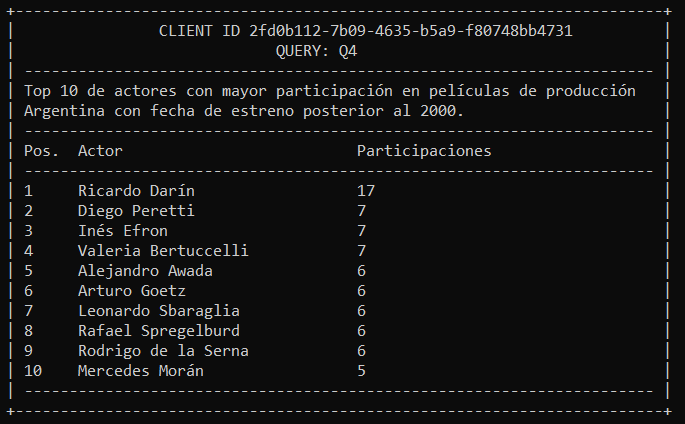
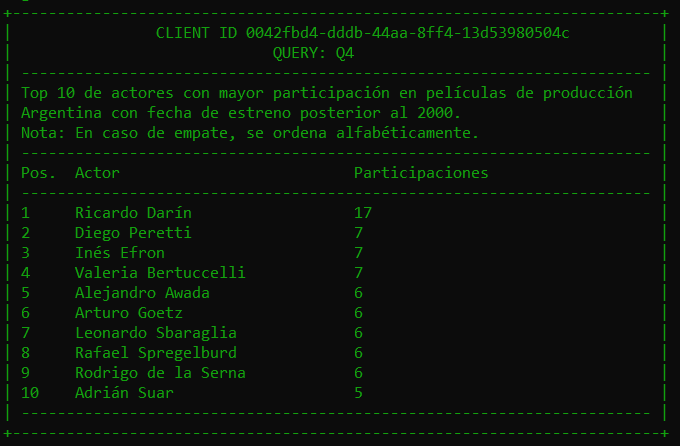
Update result presentation and query logic for improved clarity and accuracy in actor rankings now sorted alphabetically

Changed region(s): [[0.0, 0.0, 0.9882, 0.9811], [0.4941, 0.4292, 0.5559, 0.8892], [0.525, 0.0, 0.5559, 0.0307]]

diff --git a/query/q4/q4.py b/query/q4/q4.py
@@ -17,7 +17,9 @@ class ArgProdActorsQuery(QueryBase):
     """
 
     def __init__(self, config):
-        self.source_queue = config["DEFAULT"].get("movies_credits_queue", "movies_credits")
+        self.source_queue = config["DEFAULT"].get(
+            "movies_credits_queue", "movies_credits"
+        )
         super().__init__(config, self.source_queue, logger_name="q4")
 
         self.duplicate_handler = DuplicateHandler()
@@ -39,13 +41,12 @@ class ArgProdActorsQuery(QueryBase):
             }
 
         else:
-            # Sort actors by participation count in descending order and get the top 10
+            # Sort actors by participation count in descending order of participations and then alfabetical
+            # and get the top 10
             all_sorted_actors = sorted(
                 self.actor_participations[key].values(),
-                key=lambda x: x["count"],
-                reverse=True,
+                key=lambda x: (-x["count"], x["name"]),
             )
-
             logger.info("Top actors: %s", all_sorted_actors)
 
             sorted_actors = all_sorted_actors[:10]
@@ -60,8 +61,11 @@ class ArgProdActorsQuery(QueryBase):
         self.rabbitmq_processor.publish(
             target=self.config["DEFAULT"]["results_queue"], message=results_msg
         )
-        logger.debug("LRU: Results published for client %s, %s", client_id, 
-                    self.duplicate_handler.get_cache(client_id, self.source_queue))
+        logger.debug(
+            "LRU: Results published for client %s, %s",
+            client_id,
+            self.duplicate_handler.get_cache(client_id, self.source_queue),
+        )
 
     def callback(self, ch, method, properties, body, input_queue):
         msg_type = properties.type if properties else "UNKNOWN"
@@ -72,7 +76,6 @@ class ArgProdActorsQuery(QueryBase):
         sub_id = headers.get("sub_id")
         expected = headers.get("expected")
         message_key = f"{message_id}:{sub_id}/{expected}"
-
 
         if client_id is None:
             logger.warning("❌ Missing client_id in headers. Skipping.")
@@ -88,7 +91,9 @@ class ArgProdActorsQuery(QueryBase):
                 logger.error("Failed to decode EOS message")
                 self.rabbitmq_processor.acknowledge(method)
                 return
-            if not self.client_manager.has_queue_received_eos_from_node(client_id, input_queue, node_id):
+            if not self.client_manager.has_queue_received_eos_from_node(
+                client_id, input_queue, node_id
+            ):
                 self.client_manager.mark_eos(client_id, input_queue, node_id)
                 if self.client_manager.has_received_all_eos(client_id, input_queue):
                     logger.info("All nodes have sent EOS. Calculating results...")
@@ -100,14 +105,17 @@ class ArgProdActorsQuery(QueryBase):
                 )
             self.rabbitmq_processor.acknowledge(method)
             return
-        
+
         if message_key is None:
             logger.error("Missing message_key in headers")
             self.rabbitmq_processor.acknowledge(method)
             return
 
         if self.duplicate_handler.is_duplicate(client_id, input_queue, message_key):
-            logger.info("Duplicate message detected: %s. Acknowledging without processing.", message_key)
+            logger.info(
+                "Duplicate message detected: %s. Acknowledging without processing.",
+                message_key,
+            )
             self.rabbitmq_processor.acknowledge(method)
             return
 

diff --git a/client/result_presenter.py b/client/result_presenter.py
@@ -97,6 +97,7 @@ class ResultPresenter:
             "-" * 70,
             "Top 10 de actores con mayor participación en películas de producción",
             "Argentina con fecha de estreno posterior al 2000.",
+            "Nota: En caso de empate, se ordena alfabéticamente.",
             "-" * 70,
         ]
 
